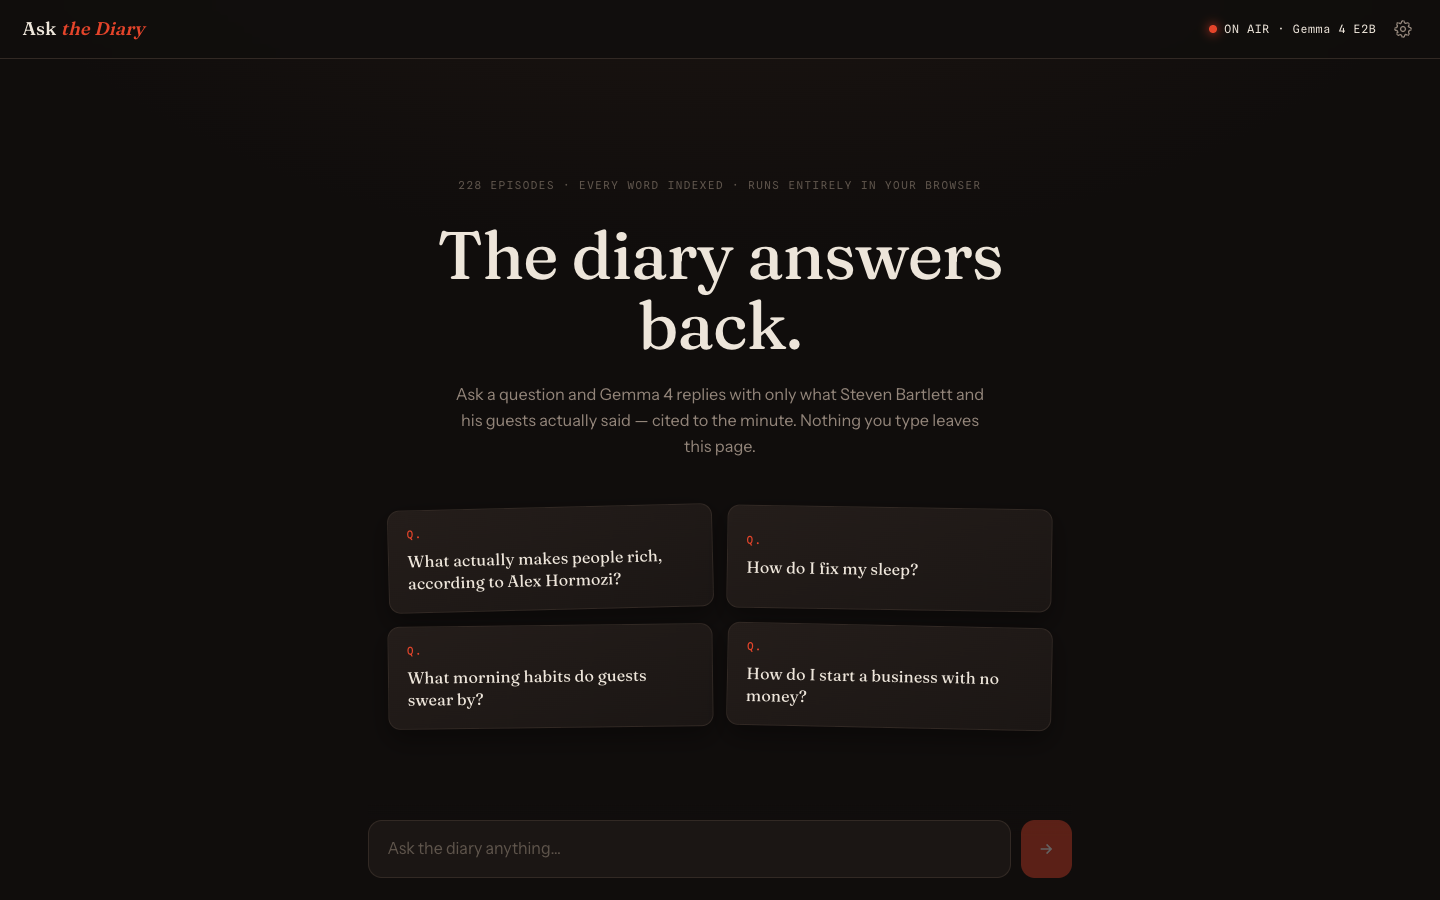
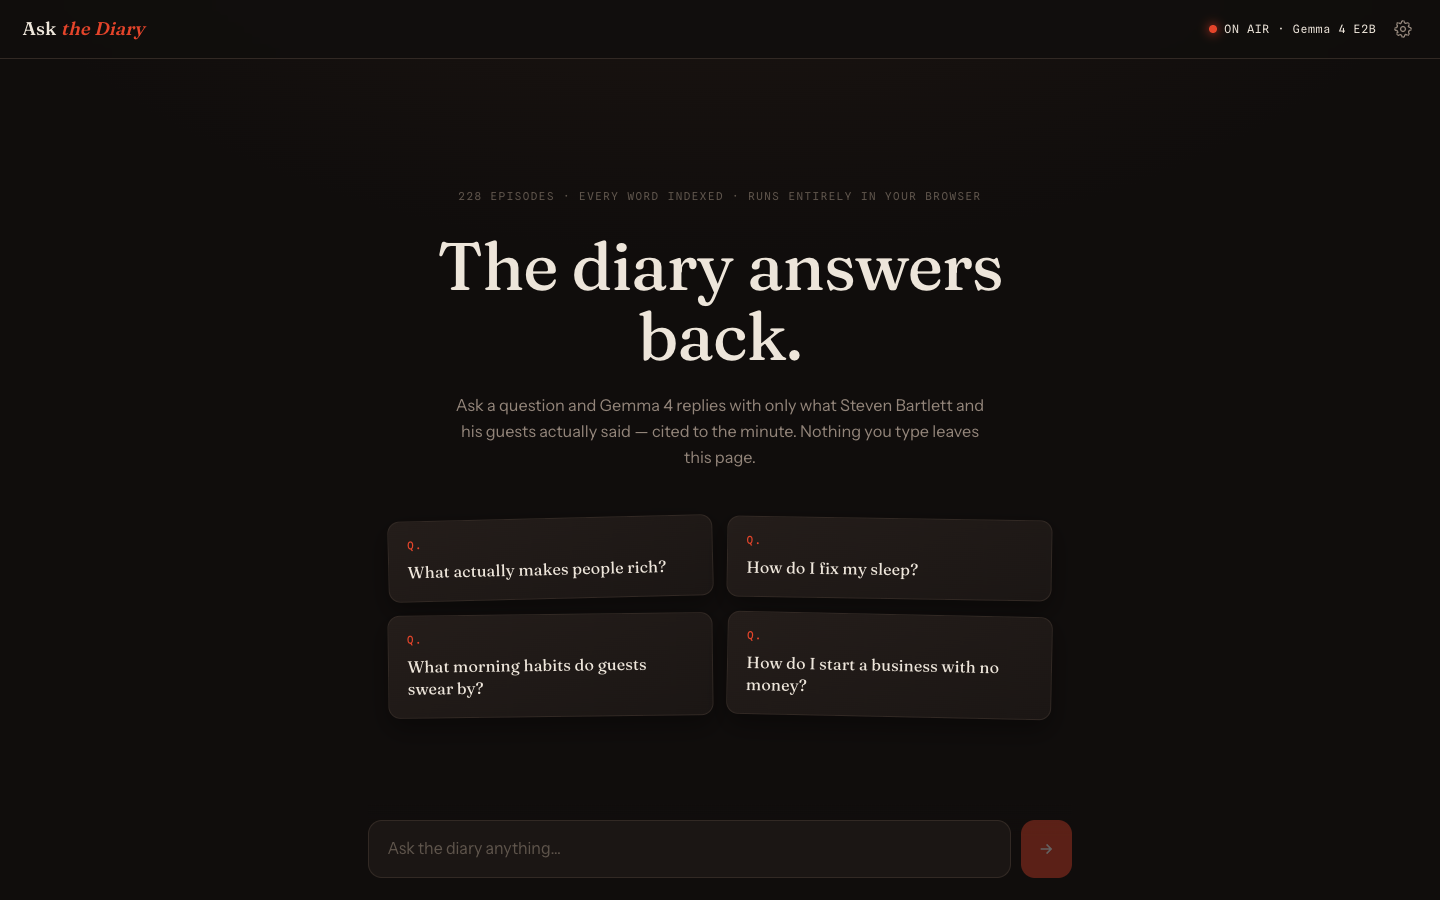
fix: guest-neutral template questions
Claude-Session: https://claude.ai/code/session_01ADs2bJUaE8uqUeuY7gAFmY

diff --git a/src/routes/+page.svelte b/src/routes/+page.svelte
@@ -7,7 +7,7 @@
 	let feed: HTMLElement | undefined = $state();
 
 	const CARDS = [
-		'What actually makes people rich, according to Alex Hormozi?',
+		'What actually makes people rich?',
 		'How do I fix my sleep?',
 		'What morning habits do guests swear by?',
 		'How do I start a business with no money?'
